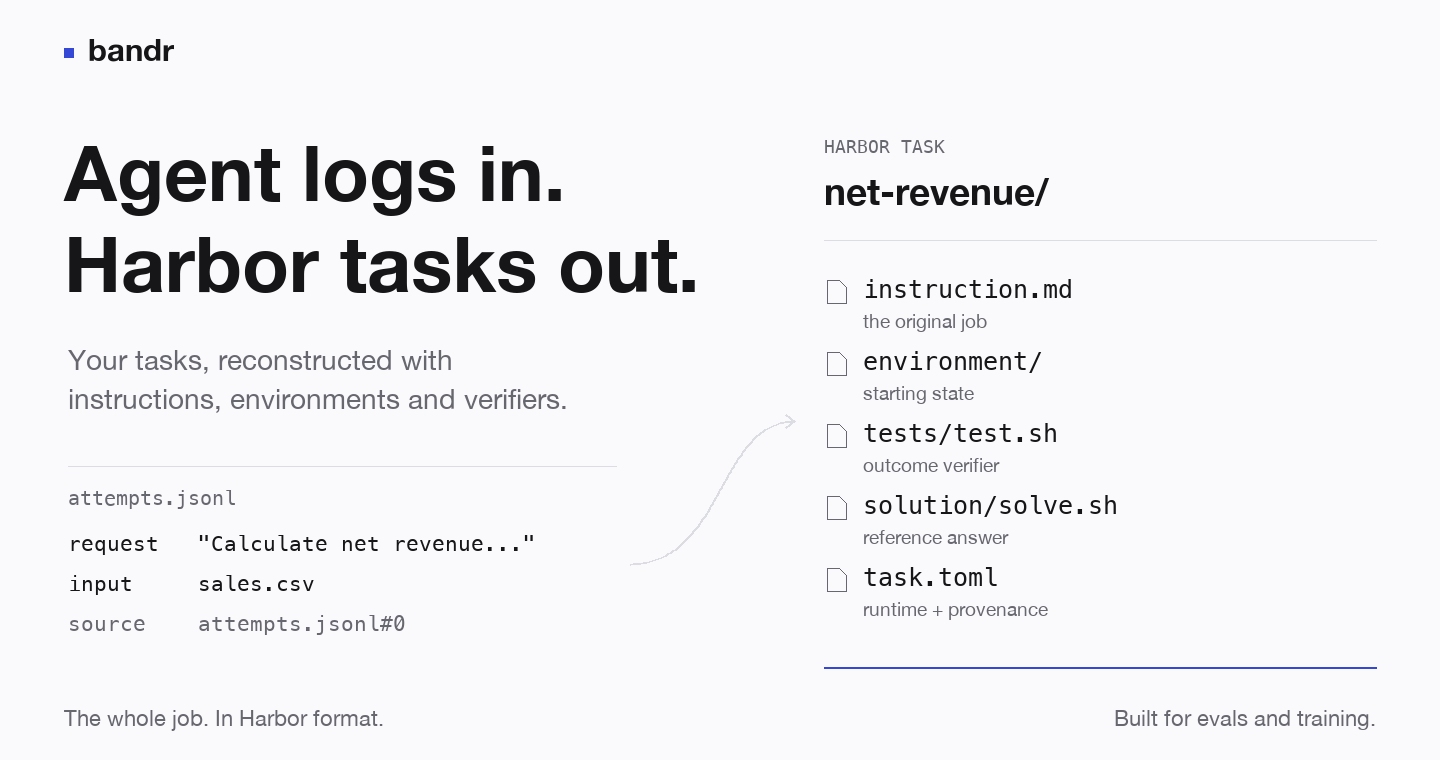
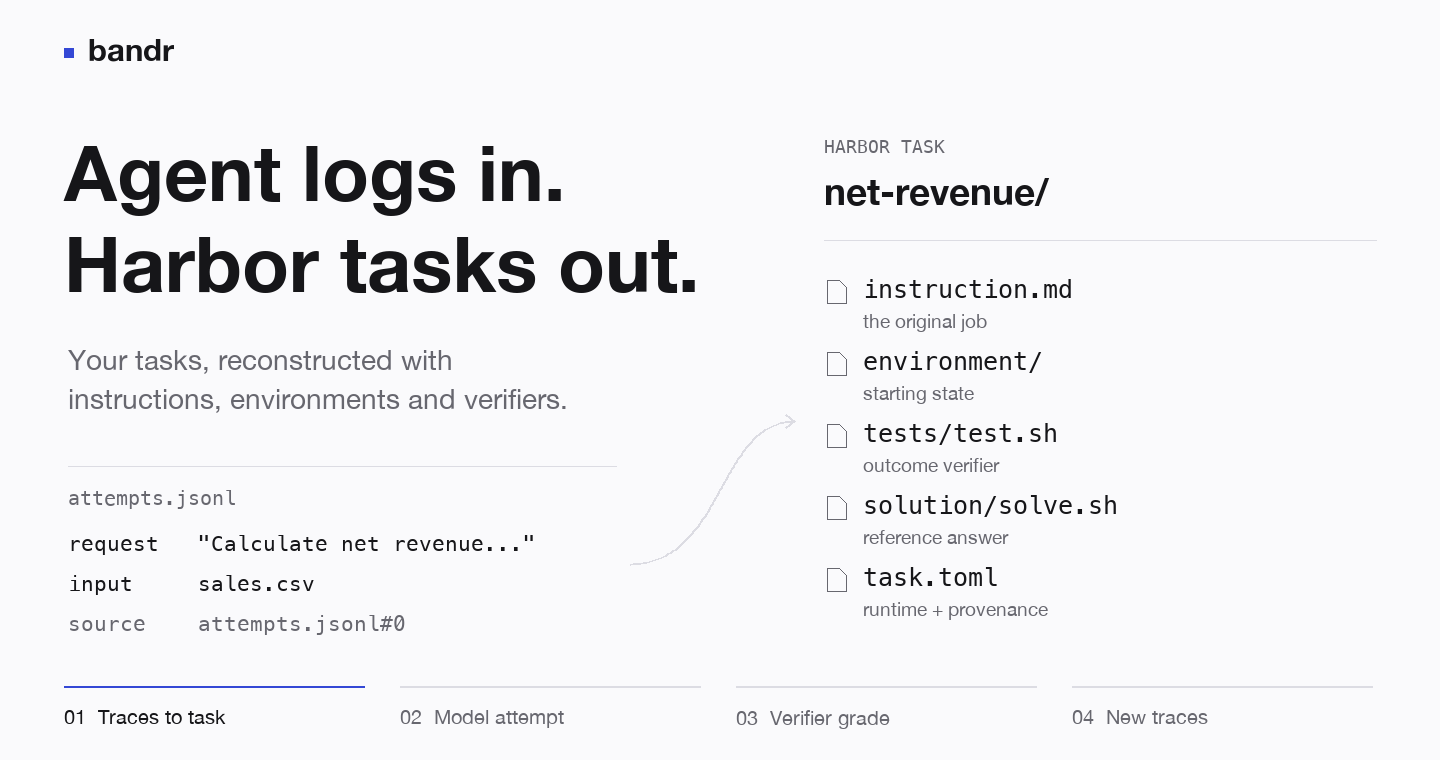
Extend the README animation through model attempts, grading, and new traces

diff --git a/scripts/render_readme.py b/scripts/render_readme.py
@@ -73,8 +73,10 @@ def ease(value: float) -> float:
     return value * value * (3.0 - 2.0 * value)
 
 
-def render(theme: dict, seconds: float, sans: str, mono: str) -> Image.Image:
-    """A source record becomes the actual Harbor package, with continuous eased motion."""
+def render(
+    theme: dict, seconds: float, sans: str, mono: str, phase: int = 0, evidence: dict | None = None
+) -> Image.Image:
+    """Conversion, downstream model attempt, grading, and the next trace."""
     from PIL import ImageColor
 
     im = Image.new("RGB", SIZE, theme["bg"])
@@ -98,42 +100,127 @@ def render(theme: dict, seconds: float, sans: str, mono: str) -> Image.Image:
     # Editorial typography and open space, rather than a dashboard of boxes.
     d.rectangle((64, 48, 73, 57), fill=theme["accent"])
     text(88, 39, "bandr", 31, bold=True)
-    text(64, 146, "Agent logs in.", 77, bold=True)
-    text(64, 237, "Harbor tasks out.", 77, bold=True)
-    text(68, 350, "Your tasks, reconstructed with", 28, "muted")
-    text(68, 389, "instructions, environments and verifiers.", 28, "muted")
-
-    d.line((68, 466, 616, 466), fill=theme["line"], width=1)
-    text(68, 490, "attempts.jsonl", 20, "muted", code=True)
-    text(68, 535, 'request   "Calculate net revenue..."', 21, code=True)
-    text(68, 575, "input     sales.csv", 21, code=True)
-    text(68, 615, "source    attempts.jsonl#0", 21, "muted", code=True)
-
-    # One document, with the actual paths materialize() writes. No invented commands.
-    progress = ease(seconds / 3.9)
-    text(824, 140, "HARBOR TASK", 18, "muted", code=True)
-    text(824, 178, "net-revenue/", 37, bold=True)
-    d.line((824, 240, 1376, 240), fill=theme["line"], width=1)
-    rows = [
-        ("instruction.md", "the original job"),
-        ("environment/", "starting state"),
-        ("tests/test.sh", "outcome verifier"),
-        ("solution/solve.sh", "reference answer"),
-        ("task.toml", "runtime + provenance"),
+    evidence = evidence or {"answer": "100", "reward": 1.0, "wrong": "140", "wrong_reward": 0.0}
+    headings = [
+        ("Agent logs in.", "Harbor tasks out."),
+        ("A Harbor task.", "A model attempts it."),
+        ("Model output.", "Verifier grade."),
+        ("A new attempt.", "A new trace."),
     ]
-    for index, (path, description) in enumerate(rows):
-        amount = ease((seconds - 0.35 - index * 0.56) / 0.65)
-        y = 279 + index * 72 + (1 - amount) * 13
-        opacity = 0.22 + 0.78 * amount
-        # Small file glyph; no faux application chrome.
-        x = 827
-        d.line(
-            (x, y + 1, x + 12, y + 1, x + 19, y + 8, x + 19, y + 24, x, y + 24, x, y + 1),
-            fill=color("muted", opacity),
-            width=1,
+    subtitles = [
+        ("Your tasks, reconstructed with", "instructions, environments and verifiers."),
+        ("The agent gets the original job", "and works in the task environment."),
+        ("The task's verifier checks the outcome", "and assigns a reward."),
+        ("The run records what the model did.", "Use its traces for the next conversion."),
+    ]
+    for y, value in zip((146, 237), headings[phase], strict=True):
+        text(64, y, value, 65 if phase == 1 else 77, bold=True)
+    for y, value in zip((350, 389), subtitles[phase], strict=True):
+        text(68, y, value, 28, "muted")
+
+    previews = [
+        (
+            "attempts.jsonl",
+            'request   "Calculate net revenue..."',
+            "input     sales.csv",
+            "source    attempts.jsonl#0",
+        ),
+        (
+            "net-revenue/",
+            "job       Calculate net revenue",
+            "files     sales.csv",
+            "runtime   Harbor",
+        ),
+        (
+            "answer.txt",
+            f"answer    {evidence['answer']}",
+            "checked by the task's verifier",
+            "tests/test.sh",
+        ),
+        (
+            "agent/trajectory.json",
+            "request   the original job",
+            "steps     the model's actions",
+            "result    verifier reward",
+        ),
+    ]
+    d.line((68, 466, 616, 466), fill=theme["line"], width=1)
+    for index, value in enumerate(previews[phase]):
+        text(
+            68,
+            (490, 535, 575, 615)[index],
+            value,
+            20 if index == 0 else 21,
+            "muted" if index in (0, 3) else "ink",
+            code=True,
         )
-        text(863, y, path, 25, code=True, alpha=opacity)
-        text(863, y + 35, description, 19, "muted", alpha=opacity)
+
+    if phase == 0:
+        # One document, with the actual paths materialize() writes. No invented commands.
+        text(824, 140, "HARBOR TASK", 18, "muted", code=True)
+        text(824, 178, "net-revenue/", 37, bold=True)
+        d.line((824, 240, 1376, 240), fill=theme["line"], width=1)
+        rows = [
+            ("instruction.md", "the original job"),
+            ("environment/", "starting state"),
+            ("tests/test.sh", "outcome verifier"),
+            ("solution/solve.sh", "reference answer"),
+            ("task.toml", "runtime + provenance"),
+        ]
+        for index, (path, description) in enumerate(rows):
+            amount = ease((seconds - 0.35 - index * 0.56) / 0.65)
+            y = 279 + index * 72 + (1 - amount) * 13
+            opacity = 0.22 + 0.78 * amount
+            # Small file glyph; no faux application chrome.
+            x = 827
+            d.line(
+                (x, y + 1, x + 12, y + 1, x + 19, y + 8, x + 19, y + 24, x, y + 24, x, y + 1),
+                fill=color("muted", opacity),
+                width=1,
+            )
+            text(863, y, path, 25, code=True, alpha=opacity)
+            text(863, y + 35, description, 19, "muted", alpha=opacity)
+
+    elif phase == 1:
+        text(824, 140, "MODEL ATTEMPT", 18, "muted", code=True)
+        text(824, 178, "A fresh agent run", 37, bold=True)
+        d.line((824, 240, 1376, 240), fill=theme["line"], width=1)
+        actions = [
+            ("Read the instruction", "instruction.md"),
+            ("Work in the environment", "sales.csv + tools"),
+            ("Submit an answer", f"answer.txt  →  {evidence['answer']}"),
+        ]
+        for index, (label, detail) in enumerate(actions):
+            y = 287 + index * 105
+            text(824, y, label, 28)
+            text(824, y + 43, detail, 23, "muted", code=True)
+    elif phase == 2:
+        text(824, 140, "TASK VERIFIER", 18, "muted", code=True)
+        text(824, 178, "tests/test.sh", 37, bold=True)
+        d.line((824, 240, 1376, 240), fill=theme["line"], width=1)
+        text(824, 285, "answer", 22, "muted", code=True)
+        text(1130, 285, "reward", 22, "muted", code=True)
+        text(824, 332, evidence["answer"], 80, bold=True)
+        text(1130, 332, f"{evidence['reward']:.1f}", 80, "accent", bold=True)
+        text(824, 456, "Expected outcome matched.", 29)
+        text(
+            824,
+            517,
+            f"Wrong answer {evidence['wrong']} → reward {evidence['wrong_reward']:.1f}",
+            23,
+            "muted",
+            code=True,
+        )
+        text(824, 584, "The verifier grades the result.", 24, "muted")
+    else:
+        text(824, 140, "RUN OUTPUT", 18, "muted", code=True)
+        text(824, 178, "New attempt traces", 37, bold=True)
+        d.line((824, 240, 1376, 240), fill=theme["line"], width=1)
+        text(824, 295, "agent/trajectory.json", 27, code=True)
+        text(824, 338, "The model's steps and observations", 24, "muted")
+        text(824, 415, "result.json", 27, code=True)
+        text(824, 458, "The verifier's result", 24, "muted")
+        text(824, 564, "Traces for the next conversion.", 28)
 
     # A thin continuous connection, with a packet that eases into the package.
     curve = []
@@ -143,36 +230,52 @@ def render(theme: dict, seconds: float, sans: str, mono: str) -> Image.Image:
         y = (1 - t) ** 3 * 564 + 3 * (1 - t) ** 2 * t * 564 + 3 * (1 - t) * t * t * 421 + t**3 * 421
         curve.append((x, y))
     d.line(curve, fill=theme["line"], width=2)
-    if seconds < 3.9:
-        amount = ease((seconds % 0.78) / 0.78)
+    if phase == 0 and seconds < 3.9 or phase == 3:
+        amount = ease(seconds / 1.2) if phase == 3 else ease((seconds % 0.78) / 0.78)
         index = min(79, int(amount * 80))
+        if phase == 3:
+            index = 79 - index
         x, y = curve[index]
         d.ellipse((x - 3, y - 3, x + 3, y + 3), fill=theme["accent"])
-    d.line((785, 414, 794, 421, 785, 428), fill=theme["line"], width=2)
+    arrow = (639, 557, 630, 564, 639, 571) if phase == 3 else (785, 414, 794, 421, 785, 428)
+    d.line(arrow, fill=theme["line"], width=2)
 
-    d.line((824, 667, 1376, 667), fill=theme["line"], width=2)
-    d.line((824, 667, 824 + round(552 * progress), 667), fill=theme["accent"], width=2)
-    text(64, 710, "The whole job. In Harbor format.", 22, "muted")
-    text(1376, 710, "Built for evals and training.", 22, "muted", right=True)
+    labels = ["01  Traces to task", "02  Model attempt", "03  Verifier grade", "04  New traces"]
+    for index, label in enumerate(labels):
+        x = 64 + index * 336
+        d.line((x, 686, x + 300, 686), fill=theme["accent" if index == phase else "line"], width=2)
+        text(x, 710, label, 20, "ink" if index == phase else "muted")
     return im
 
 
-def animation(theme, sans, mono):
-    """25 fps while moving, followed by a deliberate reading hold and a smooth loop."""
-    frames = [render(theme, frame / 25, sans, mono) for frame in range(101)]
+def animation(theme, sans, mono, evidence):
+    """Four readable scenes, 25 fps eased transitions, and a returning trace."""
+    frames = [render(theme, frame / 25, sans, mono, evidence=evidence) for frame in range(101)]
     durations = [40] * len(frames)
-    durations[0] = 900
-    durations[-1] = 2600
-    # Crossfade to the opening; no sudden reset and no blank frame.
-    for index in range(1, 16):
-        frames.append(Image.blend(frames[100], frames[0], ease(index / 15)))
-        durations.append(40)
+    durations[0], durations[-1] = 700, 1000
+
+    def transition(target):
+        previous = frames[-1]
+        for index in range(1, 16):
+            frames.append(Image.blend(previous, target, ease(index / 15)))
+            durations.append(40)
+
+    for phase in (1, 2, 3):
+        target = render(theme, 0, sans, mono, phase, evidence)
+        transition(target)
+        durations[-1] = 2100 if phase < 3 else 700
+        if phase == 3:
+            for index in range(1, 33):
+                frames.append(render(theme, index / 25, sans, mono, phase, evidence))
+                durations.append(40)
+            durations[-1] = 1000
+    transition(frames[0])
     return frames, durations
 
 
 def capture_example(
     example: Path | None = None, expected_count: int = 2
-) -> tuple[list[str], dict[str, int]]:
+) -> tuple[list[str], dict[str, int], dict]:
     """Run the shipped example; fail the build if the illustrated result stops being true."""
     example = example or ROOT / "examples/mint"
     with tempfile.TemporaryDirectory(prefix="mint-readme-") as temporary:
@@ -223,7 +326,24 @@ def capture_example(
             status: sum(row["status"] == status for row in rows)
             for status in ("generated", "validated")
         }
-        return excerpt, counts
+        evidence = {}
+        if expected_count == 1:
+            row = rows[0]
+            task = workspace / "out/tasks" / row["type"] / row["task_id"]
+            expected = json.loads((task / "tests/expected.json").read_text())["expected"]
+            gates = json.loads(
+                (workspace / "out/.mint/gates" / f"{row['task_id']}.json").read_text()
+            )
+            detail = gates["detail"]
+            wrong = detail["wrong"]["runs"][0]
+            evidence = {
+                "answer": str(expected),
+                "reward": detail["oracle"]["reward"],
+                "wrong": str(wrong["answer"]),
+                "wrong_reward": wrong["reward"],
+            }
+            assert evidence["reward"] == 1.0 and evidence["wrong_reward"] == 0.0
+        return excerpt, counts, evidence
 
 
 def render_checks(theme: dict, mono: str, lines: list[str], counts: dict) -> Image.Image:
@@ -259,14 +379,21 @@ def main():
     args = parser.parse_args()
     sans, mono = font_path(args.sans_font, False), font_path(args.mono_font, True)
     hero_example = ROOT / "examples/mint/net-revenue"
-    capture_example(hero_example, expected_count=1)
+    _, _, evidence = capture_example(hero_example, expected_count=1)
     OUT.mkdir(parents=True, exist_ok=True)
-    transcript, counts = capture_example()
+    transcript, counts, _ = capture_example()
     (OUT / "mint-checks.txt").write_text(
         "$ mint validate --runner local\n" + "\n".join(transcript) + "\n"
     )
+    (OUT / "mint-loop-evidence.json").write_text(
+        json.dumps(
+            {**evidence, "runner": "local", "model_attempt": "schematic; no live model run"},
+            indent=2,
+        )
+        + "\n"
+    )
     for name, theme in THEMES.items():
-        frames, durations = animation(theme, sans, mono)
+        frames, durations = animation(theme, sans, mono, evidence)
         poster = frames[100]
         poster.save(OUT / f"mint-workflow-{name}.png", optimize=True)
         frames[0].save(

diff --git a/docs/assets/readme/README.md b/docs/assets/readme/README.md
@@ -1,20 +1,31 @@
 # README artwork
 
-The opening shows the jobs captured in agent logs becoming Harbor task packages.
-It follows the source request and starting file from the bundled
-[net-revenue example](../../../examples/mint/net-revenue) into the real files
-written by `mint.harbor.materialize`: instruction, environment, verifier, optional
-oracle, and runtime/provenance configuration.
+The opening follows four stages:
 
-The visual uses black/white typography, a restrained blue accent, and an open
-layout. File rows fade and slide into place with eased transitions at **25 fps**.
-It holds the completed package for reading, then crossfades back to the opening.
-There are no low-frame-rate stepped position jumps.
+1. **Traces → Harbor task:** the actual package-writing contract.
+2. **Model attempt:** an agent reads the instruction, uses the environment, and submits output.
+3. **Verifier grade:** the task verifier checks the output and produces a reward.
+4. **New traces:** the attempt's `agent/trajectory.json` and `result.json` can be used in a later conversion.
+
+The first stage uses the package produced from the
+[net-revenue example](../../../examples/mint/net-revenue). The renderer asserts
+the displayed paths exist. Numeric rewards are read from that example's actual
+local gate results and saved in `mint-loop-evidence.json`. The model-attempt
+segment is schematic: no live model solve is performed or claimed by the renderer.
+The measured reward is from the local reference/wrong-answer gates.
+
+The return path means new run traces can feed another conversion. It does not
+mean Mint automatically starts a training job or changes model weights. Harbor
+executes the downstream agent; Mint constructs and checks the task package.
+
+The loop preserves the monochrome typography and blue accent. Movement and
+crossfades use 25 fps timing, with reading holds. GIFs share one palette to avoid
+color flicker. Static and reduced-motion versions retain the conversion scene
+and show all four stages in the navigation rail.
 
 This is a designed animation of the included synthetic fixture, not a recording
-of conversion speed or a model solve. The renderer actually builds the example,
-asserts that the displayed output files exist, and checks the local verifier
-gates. Local passes remain generated; no Harbor execution is implied.
+of conversion speed. Local verifier passes remain generated; no real Harbor run
+or live-model result is implied by the numeric example.
 
 The CLI panel is an excerpt captured by actually running the supplied parser,
 generator, local validation, and report in a temporary workspace. Its text is

diff --git a/README.md b/README.md
@@ -17,7 +17,7 @@ Rebuild the jobs in your traces as runnable tasks for evaluation and training.
   <source media="(prefers-reduced-motion: reduce) and (prefers-color-scheme: dark)" srcset="docs/assets/readme/mint-workflow-dark.png">
   <source media="(prefers-reduced-motion: reduce)" srcset="docs/assets/readme/mint-workflow-light.png">
   <source media="(prefers-color-scheme: dark)" srcset="docs/assets/readme/mint-workflow-dark.gif">
-  <img src="docs/assets/readme/mint-workflow-light.gif" alt="bandr converts jobs captured in agent logs into Harbor task packages. The source request and starting data become instruction.md and environment/, alongside tests/test.sh, an optional solution/solve.sh, and task.toml." width="100%">
+  <img src="docs/assets/readme/mint-workflow-light.gif" alt="bandr converts traces into a Harbor task. A model attempts the task in its environment, the task verifier grades the output, and the new trajectory and result can feed the next conversion." width="100%">
 </picture>
 
 <p align="center"><sub><a href="docs/assets/readme/mint-workflow-light.gif">Open GIF</a> &nbsp;·&nbsp; <a href="examples/mint/net-revenue">Run the example</a> &nbsp;·&nbsp; <a href="docs/assets/readme/mint-workflow-light.png">Still image</a></sub></p>
@@ -32,6 +32,12 @@ writes source-specific parsers and generators; Mint runs them over the corpus,
 writes the packages, checks them, and records their provenance and gaps.
 Successful, failed, and partial runs can all contribute. Repeat attempts at the
 same instance become one task with their evidence kept together.
+
+**Traces → Harbor task → model attempt → verifier grade → new traces.**
+Harbor can run an agent on the packaged task and grade its output using the task's
+verifier. The resulting trajectory and result can become input for another
+conversion. Use the tasks for evaluation or as environments in a training
+workflow.
 
 ## Quickstart
 

diff --git a/docs/plans/readme-design.md b/docs/plans/readme-design.md
@@ -60,3 +60,13 @@ blue accent. Keep only bandr as the brand. Reveal the Harbor package with smooth
 actual GIFs, lossless WebPs, and static/reduced-motion alternatives. Verify the
 example and the displayed package paths while rendering. No model-solve,
 conversion-speed, or Harbor-validation claim is made by the animation.
+
+## Downstream execution loop
+
+Keep the approved conversion composition, then continue with a model/agent
+attempt inside Harbor, a verifier reward, and the resulting run traces returning
+to the next conversion. Each stage gets its own readable scene instead of
+squeezing four panels into the README width. The verifier values are sourced
+from the runnable fixture's local gate evidence. The model segment is schematic.
+The loop links artifacts and executions; it does not imply automatic model
+training, automatic launches by Mint, or an observed model-improvement metric.
